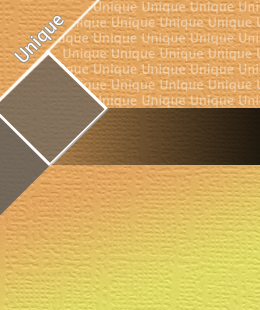
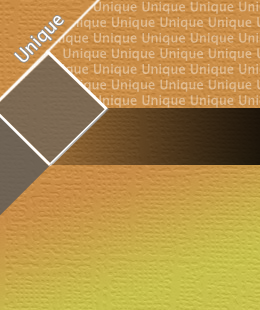
Darken the color of artifacts cards and updated layers

diff --git a/Buntek/Buntek/Devtools.cpp b/Buntek/Buntek/Devtools.cpp
@@ -94,19 +94,19 @@ TextRenderer* _devTools::AddTextToSpriteGameObject(GameObject* gameObject, strin
 GameObject* _devTools::CreateArtifactUIGameObject(unsigned long ID, Vector2 pos, short layer) {
     
     // Artifact Background
-    GameObject* ArtifactUI = CreateSpriteGameObject("WhiteTexture.png", 260, 310, AE_GFX_BM_BLEND, pos, layer - 1);
+    GameObject* ArtifactUI = CreateSpriteGameObject("WhiteTexture.png", 260, 310, AE_GFX_BM_BLEND, pos, layer);
     SpriteRenderer* ArtifactBckgrd = ArtifactUI->GetComponent<SpriteRenderer>();
     // Artifact Name
     GameObject* ArtifactName = CreateSpriteGameObject("WhiteTexture.png", 100.f, 100.f, AE_GFX_BM_BLEND, Vector2(pos.x + 46, pos.y + 22.f), layer, 0);
-    TextRenderer* NameText = AddTextToSpriteGameObject(ArtifactName, "Gabriola.ttf", ArtifactDatabase.GetName(ID), TextRenderer::xAlignmentTypes::Mid, TextRenderer::yAlignmentTypes::Mid, 29.f, layer);
+    TextRenderer* NameText = AddTextToSpriteGameObject(ArtifactName, "Gabriola.ttf", ArtifactDatabase.GetName(ID), TextRenderer::xAlignmentTypes::Mid, TextRenderer::yAlignmentTypes::Mid, 29.f, layer + 2);
     NameText->SetTextColor(1, 1, 1);
     ArtifactUI->AddChild(ArtifactName);
     // Artifact Icon
-    GameObject* ArtifactIcon = CreateSpriteGameObject(ArtifactDatabase.GetSpriteName(ID), 100.f, 100.f, AE_GFX_BM_BLEND, Vector2(pos.x + 47, pos.y + 100), layer + 1);
+    GameObject* ArtifactIcon = CreateSpriteGameObject(ArtifactDatabase.GetSpriteName(ID), 100.f, 100.f, AE_GFX_BM_BLEND, Vector2(pos.x + 47, pos.y + 100), layer + 2);
     ArtifactUI->AddChild(ArtifactIcon);
     // Artifact Description
     GameObject* ArtifactDesc = CreateSpriteGameObject("WhiteTexture.png", 250.f, 200.f, AE_GFX_BM_BLEND, Vector2(pos.x + 10, pos.y - 50), layer, 0);
-    TextRenderer* DescText = AddTextToSpriteGameObject(ArtifactDesc, "Ayar.ttf", ArtifactDatabase.GetDescription(ID), TextRenderer::xAlignmentTypes::Mid, TextRenderer::yAlignmentTypes::Mid, 16.f, layer, true);
+    TextRenderer* DescText = AddTextToSpriteGameObject(ArtifactDesc, "Ayar.ttf", ArtifactDatabase.GetDescription(ID), TextRenderer::xAlignmentTypes::Mid, TextRenderer::yAlignmentTypes::Mid, 16.f, layer + 2, true);
     ArtifactUI->AddChild(ArtifactDesc);
     // Set Background, Name and Description color
     switch (ArtifactDatabase.GetRarity(ID))

diff --git a/Buntek/Buntek/GameManager.cpp b/Buntek/Buntek/GameManager.cpp
@@ -185,7 +185,8 @@ void _gameManager::DisplayArtifactList(void)
     }
     else
     {
-        artifactListUI = new GameObject;
+        artifactListUI = devTools.CreateSpriteGameObject("WhiteTexture.png", 1920, 1080, AE_GFX_BM_BLEND, Vector2(0, 0), 9, 0.2f);
+        artifactListUI->GetComponent<SpriteRenderer>()->SetColor(0, 0, 0);
 
         int x = -780, y = 360;
         for (map<unsigned long, int>::iterator it = SaveManager.artifactSaveData.begin(); it != SaveManager.artifactSaveData.end(); ++it)
@@ -193,7 +194,7 @@ void _gameManager::DisplayArtifactList(void)
             GameObject* newArtifactUI = devTools.CreateArtifactUIGameObject(it->first, Vector2(x, y), 10);
             GameObject* textObj = new GameObject;
             textObj->transform->SetPosition(Vector2(x - 80, y + 50));
-            devTools.AddTextToSpriteGameObject(textObj, "GothicA1.ttf", to_string(it->second), TextRenderer::xAlignmentTypes::Mid, TextRenderer::yAlignmentTypes::Mid, 50.f, 11);
+            devTools.AddTextToSpriteGameObject(textObj, "GothicA1.ttf", to_string(it->second), TextRenderer::xAlignmentTypes::Mid, TextRenderer::yAlignmentTypes::Mid, 50.f, 12);
 
             newArtifactUI->AddChild(textObj);
             artifactListUI->AddChild(newArtifactUI);
